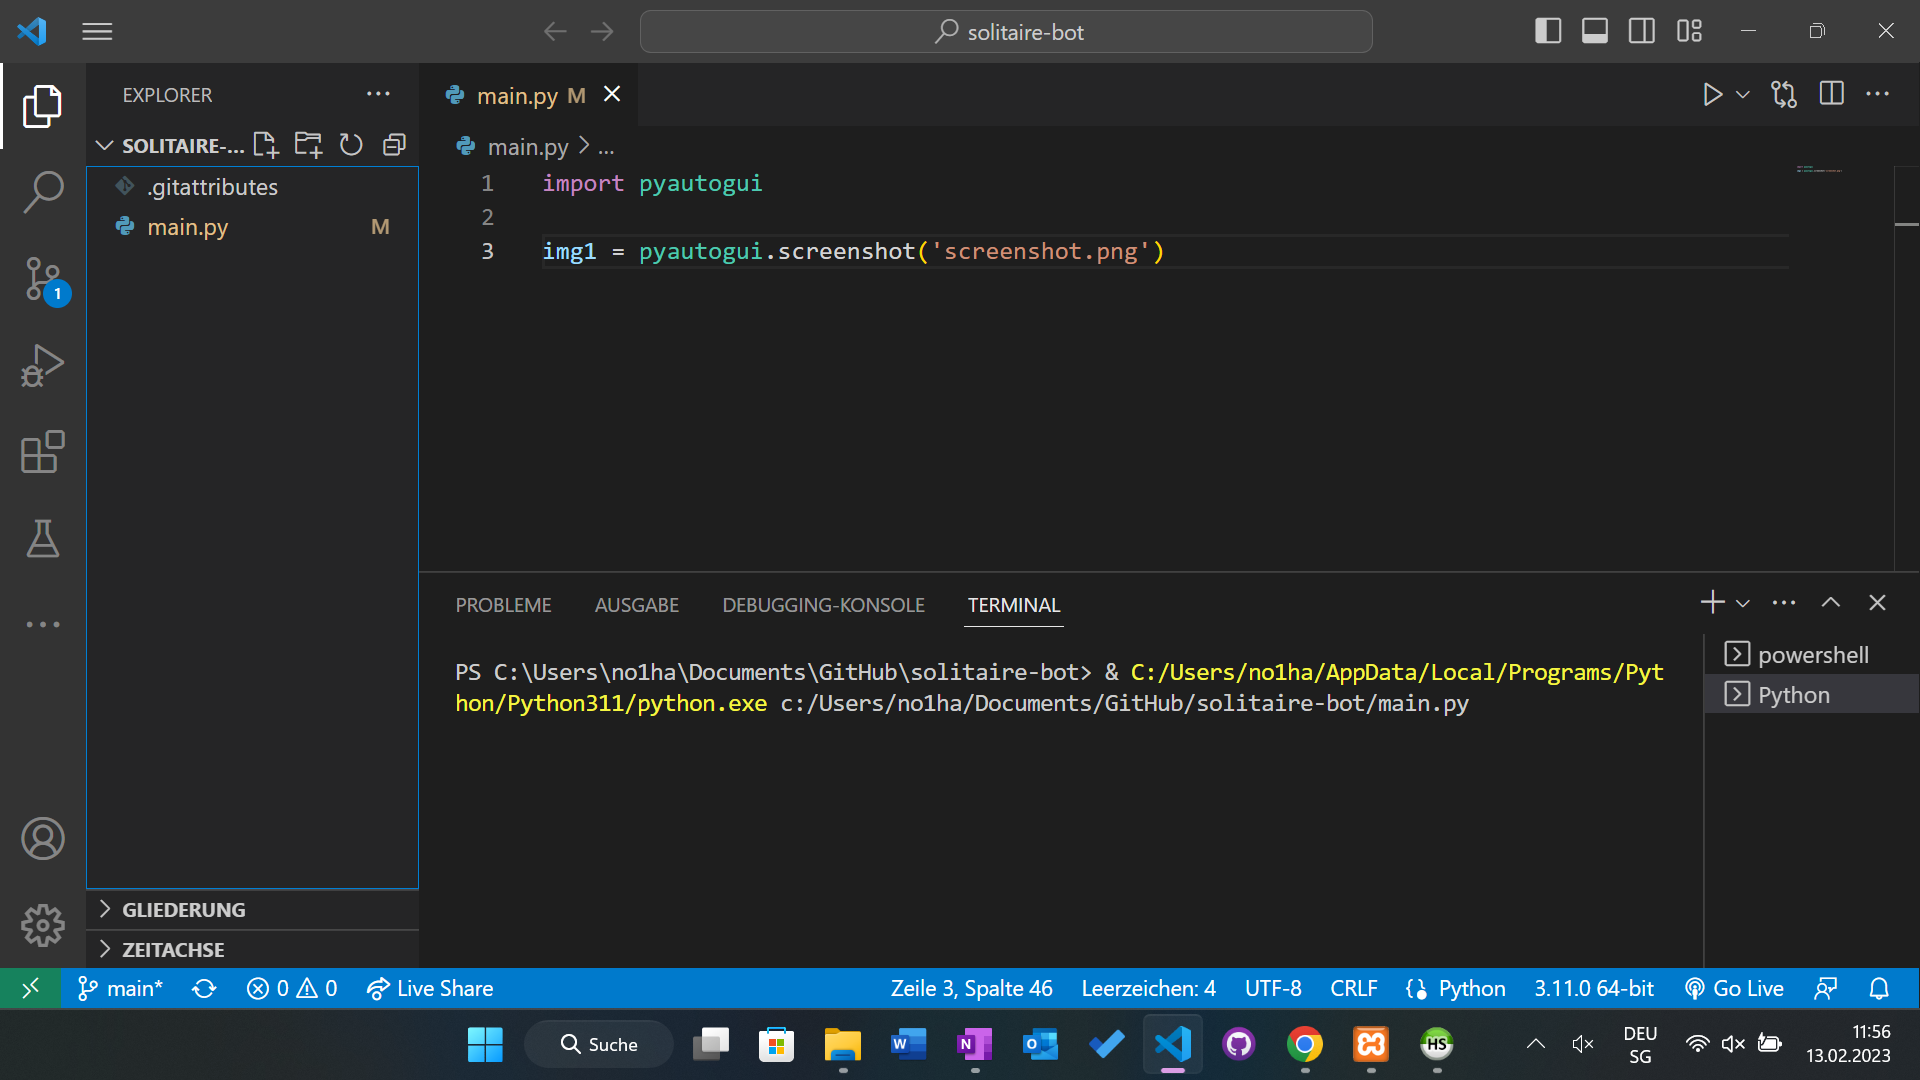
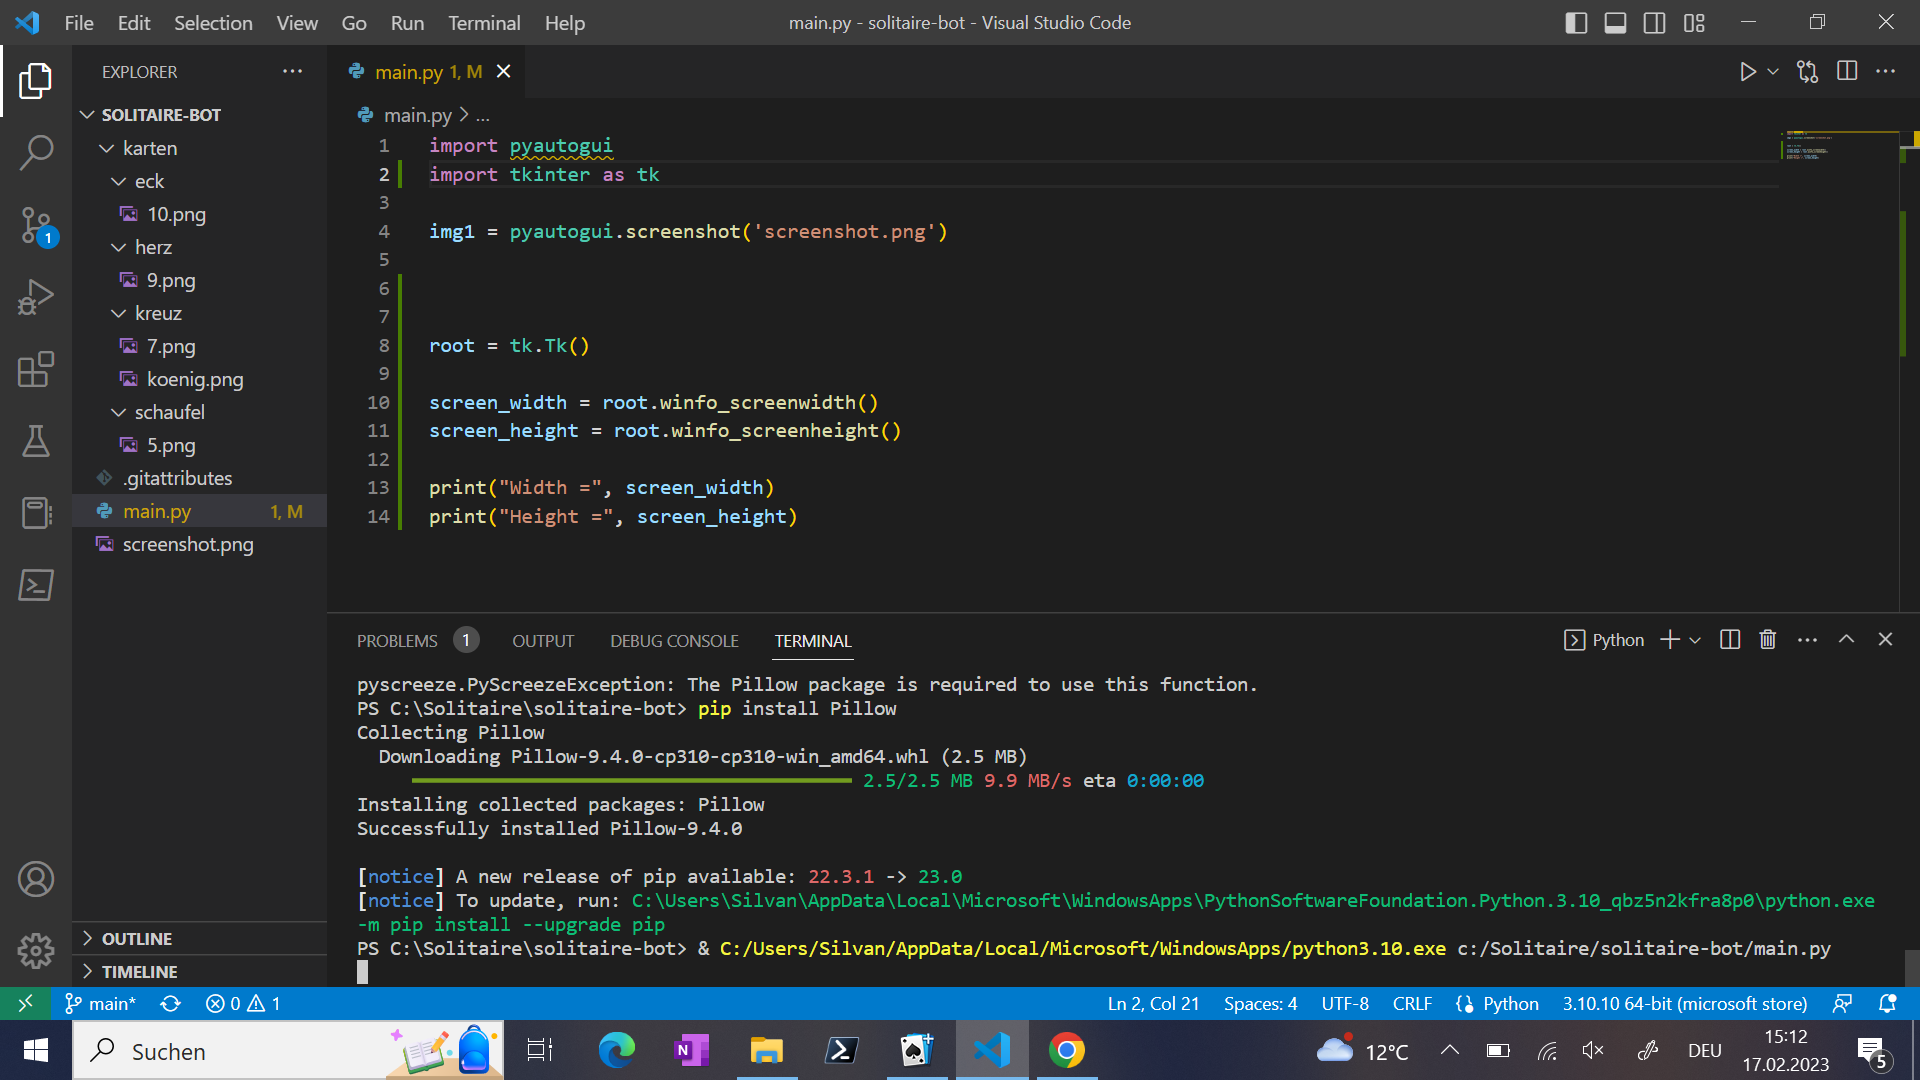
yep

diff --git a/main.py b/main.py
@@ -1,3 +1,14 @@
 import pyautogui
+import tkinter as tk
 
 img1 = pyautogui.screenshot('screenshot.png')
+
+
+
+root = tk.Tk()
+
+screen_width = root.winfo_screenwidth()
+screen_height = root.winfo_screenheight()
+
+print("Width =", screen_width)
+print("Height =", screen_height)
